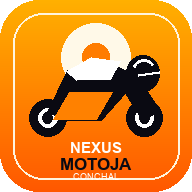
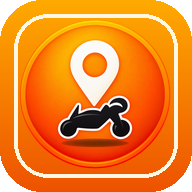
Corrige icone da tela inicial

diff --git a/dono.html b/dono.html
@@ -1,5 +1,5 @@
 <!doctype html>
-<html lang="pt-BR"><head><meta charset="utf-8"><meta name="viewport" content="width=device-width,initial-scale=1,maximum-scale=1,user-scalable=no"><title>Nexus MotoJa - Painel do Dono</title><meta name="theme-color" content="#ff6b00"><link rel="manifest" href="./dono.webmanifest"><link rel="icon" href="./nexus-motoja-icon-192.png?v=2" type="image/png"><link rel="apple-touch-icon" href="./nexus-motoja-icon-180.png?v=2"><link rel="preconnect" href="https://fonts.googleapis.com"><link rel="preconnect" href="https://fonts.gstatic.com" crossorigin><link href="https://fonts.googleapis.com/css2?family=Outfit:wght@400;600;700;800;900&display=swap" rel="stylesheet"><style>*{box-sizing:border-box;margin:0;padding:0}body{min-height:100vh;font-family:Outfit,system-ui,sans-serif;background:#090911;color:#fff}body:before{content:"";position:fixed;inset:0;background:radial-gradient(ellipse at top,rgba(255,107,0,.18),transparent 62%);pointer-events:none}.app{position:relative;z-index:1;max-width:1040px;margin:0 auto;padding:22px 16px 56px;display:grid;gap:16px}.top{display:flex;align-items:center;justify-content:space-between;gap:12px}.brand small{color:#ff9a00;font-weight:900;letter-spacing:1.3px;text-transform:uppercase}.brand h1{font-size:1.8rem;background:linear-gradient(135deg,#ffd700,#ff6b00);-webkit-background-clip:text;background-clip:text;color:transparent}.login,.box,.card{border:1px solid rgba(255,154,0,.22);border-radius:18px;background:rgba(255,255,255,.055);box-shadow:0 18px 50px rgba(0,0,0,.35);padding:16px}.login{display:grid;gap:12px;max-width:460px}label{display:grid;gap:6px;font-weight:800;font-size:.85rem}input,select{width:100%;border:1px solid rgba(255,255,255,.12);border-radius:14px;background:#1b1b27;color:#fff;padding:13px 14px;font:inherit;outline:0}button{min-height:48px;border:0;border-radius:999px;background:linear-gradient(135deg,#ff6b00,#ff9a00);color:#fff;font:inherit;font-weight:900;cursor:pointer}.hidden{display:none!important}.muted{color:#aaa;font-size:.86rem;line-height:1.35}.grid{display:grid;gap:12px}.filters{display:grid;grid-template-columns:1fr 1fr;gap:10px}.cards{display:grid;grid-template-columns:repeat(4,1fr);gap:10px}.card strong{display:block;color:#aaa;font-size:.78rem;text-transform:uppercase;letter-spacing:.8px}.value{font-size:1.55rem;font-weight:900;color:#ffd700;margin-top:4px}.table{overflow:auto;border-radius:14px;border:1px solid rgba(255,255,255,.12)}table{width:100%;border-collapse:collapse;min-width:980px}th,td{text-align:left;padding:10px 12px;border-bottom:1px solid rgba(255,255,255,.08);font-size:.88rem}th{color:#ff9a00;background:rgba(255,154,0,.08)}.ok{color:#bfffd2}.warn{color:#ffd700}.empty{padding:16px;color:#aaa}@media(max-width:760px){.top,.filters,.cards{grid-template-columns:1fr;display:grid}.brand h1{font-size:1.45rem}}</style></head><body><main class="app"><header class="top"><div class="brand"><small>Nexus MotoJa</small><h1>Painel do Dono</h1></div></header><section id="login" class="login"><label>Senha do dono<input id="senha" type="password" placeholder="Senha do painel do dono"></label><button id="entrar" type="button">Entrar</button><p class="muted">Use este painel so para conferencia interna do dono.</p></section><section id="painel" class="hidden grid"><div class="box grid"><div class="filters"><label>Periodo de pagamento<select id="periodo"><option value="todos" selected>Todos os registros</option><option value="1-10">Dia 1 ao 10 - paga dia 10</option><option value="11-20">Dia 11 ao 20 - paga dia 20</option><option value="21-31">Dia 21 ao 30/31 - paga dia 30</option></select></label><label>Status<select id="status"><option value="todos" selected>Todos</option><option value="finalizada">So finalizadas</option><option value="aceita">Aceitas em andamento</option><option value="pendente">Pendentes</option><option value="expirada">Expiradas</option><option value="cancelada">Canceladas</option></select></label></div><p class="muted">Regra de repasse: motoboy recebe 70% e o app fica com 30%. Para pagamento, conte principalmente corridas finalizadas.</p></div><section class="cards"><div class="card"><strong>Corridas</strong><div id="totalCorridas" class="value">0</div></div><div class="card"><strong>Total bruto</strong><div id="totalBruto" class="value">R$ 0,00</div></div><div class="card"><strong>Motoboys 70%</strong><div id="totalMotoboys" class="value">R$ 0,00</div></div><div class="card"><strong>App 30%</strong><div id="totalApp" class="value">R$ 0,00</div></div></section><section class="box grid"><h2>Motoboys cadastrados</h2><div id="motoboys" class="table"></div></section><section class="box grid"><h2>Resumo por motoboy</h2><div id="resumoMotoboys" class="table"></div></section><section class="box grid"><h2>Corridas registradas</h2><div id="lista" class="table"></div></section></section></main><script type="module">
+<html lang="pt-BR"><head><meta charset="utf-8"><meta name="viewport" content="width=device-width,initial-scale=1,maximum-scale=1,user-scalable=no"><title>Nexus MotoJa - Painel do Dono</title><meta name="theme-color" content="#ff6b00"><link rel="manifest" href="./dono.webmanifest"><link rel="icon" href="./nexus-motoja-icon-192.png?v=3" type="image/png"><link rel="apple-touch-icon" href="./nexus-motoja-icon-180.png?v=3"><link rel="preconnect" href="https://fonts.googleapis.com"><link rel="preconnect" href="https://fonts.gstatic.com" crossorigin><link href="https://fonts.googleapis.com/css2?family=Outfit:wght@400;600;700;800;900&display=swap" rel="stylesheet"><style>*{box-sizing:border-box;margin:0;padding:0}body{min-height:100vh;font-family:Outfit,system-ui,sans-serif;background:#090911;color:#fff}body:before{content:"";position:fixed;inset:0;background:radial-gradient(ellipse at top,rgba(255,107,0,.18),transparent 62%);pointer-events:none}.app{position:relative;z-index:1;max-width:1040px;margin:0 auto;padding:22px 16px 56px;display:grid;gap:16px}.top{display:flex;align-items:center;justify-content:space-between;gap:12px}.brand small{color:#ff9a00;font-weight:900;letter-spacing:1.3px;text-transform:uppercase}.brand h1{font-size:1.8rem;background:linear-gradient(135deg,#ffd700,#ff6b00);-webkit-background-clip:text;background-clip:text;color:transparent}.login,.box,.card{border:1px solid rgba(255,154,0,.22);border-radius:18px;background:rgba(255,255,255,.055);box-shadow:0 18px 50px rgba(0,0,0,.35);padding:16px}.login{display:grid;gap:12px;max-width:460px}label{display:grid;gap:6px;font-weight:800;font-size:.85rem}input,select{width:100%;border:1px solid rgba(255,255,255,.12);border-radius:14px;background:#1b1b27;color:#fff;padding:13px 14px;font:inherit;outline:0}button{min-height:48px;border:0;border-radius:999px;background:linear-gradient(135deg,#ff6b00,#ff9a00);color:#fff;font:inherit;font-weight:900;cursor:pointer}.hidden{display:none!important}.muted{color:#aaa;font-size:.86rem;line-height:1.35}.grid{display:grid;gap:12px}.filters{display:grid;grid-template-columns:1fr 1fr;gap:10px}.cards{display:grid;grid-template-columns:repeat(4,1fr);gap:10px}.card strong{display:block;color:#aaa;font-size:.78rem;text-transform:uppercase;letter-spacing:.8px}.value{font-size:1.55rem;font-weight:900;color:#ffd700;margin-top:4px}.table{overflow:auto;border-radius:14px;border:1px solid rgba(255,255,255,.12)}table{width:100%;border-collapse:collapse;min-width:980px}th,td{text-align:left;padding:10px 12px;border-bottom:1px solid rgba(255,255,255,.08);font-size:.88rem}th{color:#ff9a00;background:rgba(255,154,0,.08)}.ok{color:#bfffd2}.warn{color:#ffd700}.empty{padding:16px;color:#aaa}@media(max-width:760px){.top,.filters,.cards{grid-template-columns:1fr;display:grid}.brand h1{font-size:1.45rem}}</style></head><body><main class="app"><header class="top"><div class="brand"><small>Nexus MotoJa</small><h1>Painel do Dono</h1></div></header><section id="login" class="login"><label>Senha do dono<input id="senha" type="password" placeholder="Senha do painel do dono"></label><button id="entrar" type="button">Entrar</button><p class="muted">Use este painel so para conferencia interna do dono.</p></section><section id="painel" class="hidden grid"><div class="box grid"><div class="filters"><label>Periodo de pagamento<select id="periodo"><option value="todos" selected>Todos os registros</option><option value="1-10">Dia 1 ao 10 - paga dia 10</option><option value="11-20">Dia 11 ao 20 - paga dia 20</option><option value="21-31">Dia 21 ao 30/31 - paga dia 30</option></select></label><label>Status<select id="status"><option value="todos" selected>Todos</option><option value="finalizada">So finalizadas</option><option value="aceita">Aceitas em andamento</option><option value="pendente">Pendentes</option><option value="expirada">Expiradas</option><option value="cancelada">Canceladas</option></select></label></div><p class="muted">Regra de repasse: motoboy recebe 70% e o app fica com 30%. Para pagamento, conte principalmente corridas finalizadas.</p></div><section class="cards"><div class="card"><strong>Corridas</strong><div id="totalCorridas" class="value">0</div></div><div class="card"><strong>Total bruto</strong><div id="totalBruto" class="value">R$ 0,00</div></div><div class="card"><strong>Motoboys 70%</strong><div id="totalMotoboys" class="value">R$ 0,00</div></div><div class="card"><strong>App 30%</strong><div id="totalApp" class="value">R$ 0,00</div></div></section><section class="box grid"><h2>Motoboys cadastrados</h2><div id="motoboys" class="table"></div></section><section class="box grid"><h2>Resumo por motoboy</h2><div id="resumoMotoboys" class="table"></div></section><section class="box grid"><h2>Corridas registradas</h2><div id="lista" class="table"></div></section></section></main><script type="module">
 import { initializeApp } from 'https://www.gstatic.com/firebasejs/10.12.5/firebase-app.js';import { getFirestore, collection, onSnapshot, doc, updateDoc, serverTimestamp } from 'https://www.gstatic.com/firebasejs/10.12.5/firebase-firestore.js';
 const firebaseConfig={apiKey:'AIzaSyAWY3Y9heJqKL_iTA2jCr4Zw3AQ39jB-Q',authDomain:'moto-conchal.firebaseapp.com',projectId:'moto-conchal',storageBucket:'moto-conchal.firebasestorage.app',messagingSenderId:'904931531597',appId:'1:904931531597:web:14b7c6b35657e3982d3504'};const app=initializeApp(firebaseConfig),db=getFirestore(app),$=id=>document.getElementById(id);let corridas=[],motoboys=[];
 function moeda(v){return Number(v||0).toLocaleString('pt-BR',{style:'currency',currency:'BRL'})}function data(ts){return new Date((ts?.seconds||Date.now()/1000)*1000)}function dataTxt(ts){return ts?data(ts).toLocaleString('pt-BR'):'-'}function tel(t){const n=String(t||'').replace(/\D/g,'');return n.length?`<a style="color:#bfffd2" href="https://wa.me/55${n}">${n}</a>`:'-'}function noPeriodo(c){const p=$('periodo').value;if(p==='todos')return true;const dia=data(c.finalizadaEm||c.aceitaEm||c.criadaEm).getDate();if(p==='1-10')return dia>=1&&dia<=10;if(p==='11-20')return dia>=11&&dia<=20;return dia>=21&&dia<=31}function filtrar(){const st=$('status').value;return corridas.filter(c=>(st==='todos'||c.status===st)&&noPeriodo(c)).sort((a,b)=>data(b.finalizadaEm||b.aceitaEm||b.criadaEm)-data(a.finalizadaEm||a.aceitaEm||a.criadaEm))}function tabelaVazia(txt){return `<div class="empty">${txt}</div>`}function avisado(c){return c.clienteAvisadoEm?'Sim - '+dataTxt(c.clienteAvisadoEm):'Nao'}

diff --git a/index.html b/index.html
@@ -7,8 +7,8 @@
   <meta name="description" content="Peça sua corrida em Conchal pelo app Nexus MotoJá.">
   <meta name="theme-color" content="#ff6b00">
   <link rel="manifest" href="./cliente.webmanifest">
-  <link rel="icon" href="./nexus-motoja-icon-192.png?v=2" type="image/png">
-  <link rel="apple-touch-icon" href="./nexus-motoja-icon-180.png?v=2">
+  <link rel="icon" href="./nexus-motoja-icon-192.png?v=3" type="image/png">
+  <link rel="apple-touch-icon" href="./nexus-motoja-icon-180.png?v=3">
   <link rel="preconnect" href="https://fonts.googleapis.com">
   <link rel="preconnect" href="https://fonts.gstatic.com" crossorigin>
   <link href="https://fonts.googleapis.com/css2?family=Outfit:wght@400;600;700;800;900&display=swap" rel="stylesheet">

diff --git a/motoboy.html b/motoboy.html
@@ -6,8 +6,8 @@
   <title>Motorista Nexus MotoJa</title>
   <meta name="theme-color" content="#ff6b00">
   <link rel="manifest" href="./motorista.webmanifest">
-  <link rel="icon" href="./nexus-motoja-icon-192.png?v=2" type="image/png">
-  <link rel="apple-touch-icon" href="./nexus-motoja-icon-180.png?v=2">
+  <link rel="icon" href="./nexus-motoja-icon-192.png?v=3" type="image/png">
+  <link rel="apple-touch-icon" href="./nexus-motoja-icon-180.png?v=3">
   <link rel="preconnect" href="https://fonts.googleapis.com">
   <link rel="preconnect" href="https://fonts.gstatic.com" crossorigin>
   <link href="https://fonts.googleapis.com/css2?family=Outfit:wght@400;600;700;800;900&display=swap" rel="stylesheet">

diff --git a/sw.js b/sw.js
@@ -1,4 +1,4 @@
-const CACHE_NAME = 'nexus-motoja-v33-logo-png';
+const CACHE_NAME = 'nexus-motoja-v34-home-icons';
 const ARQUIVOS = ['./', './index.html', './motoboy.html', './dono.html', './cliente.webmanifest', './motorista.webmanifest', './dono.webmanifest', './firebase-messaging-sw.js', './nexus-motoja-logo-mark.png', './motorista-icon.svg', './nexus-motoja-icon-180.png', './nexus-motoja-icon-192.png', './nexus-motoja-icon-512.png'];
 
 self.addEventListener('install', (event) => {
